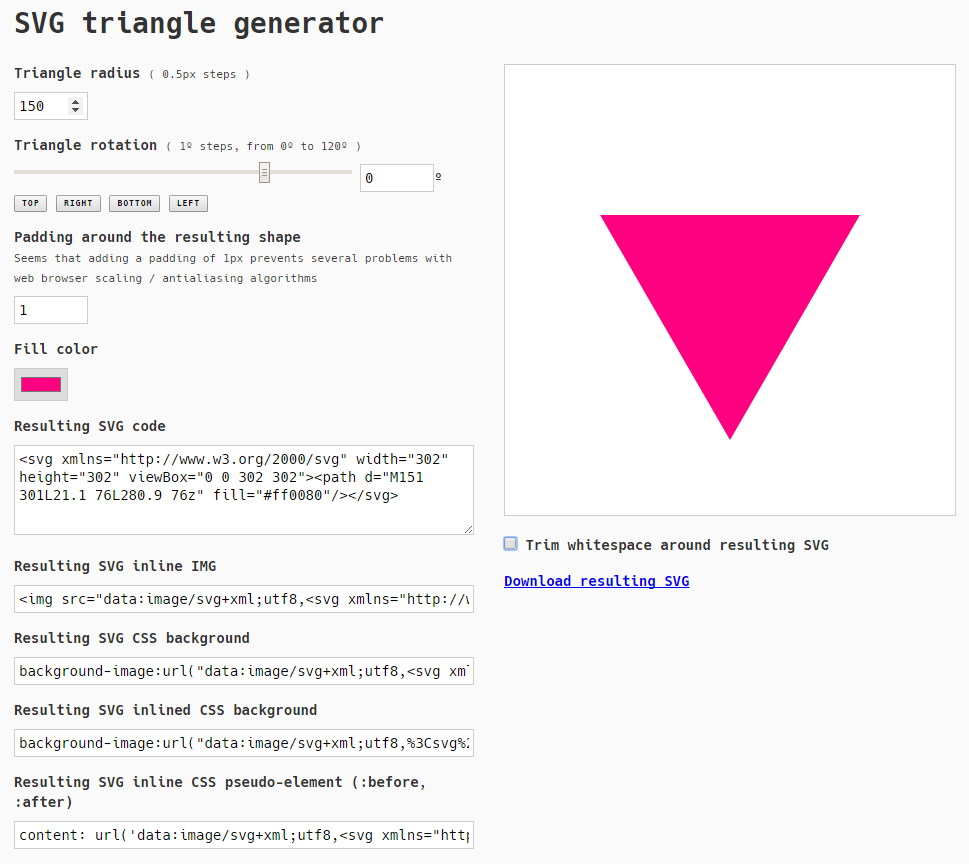
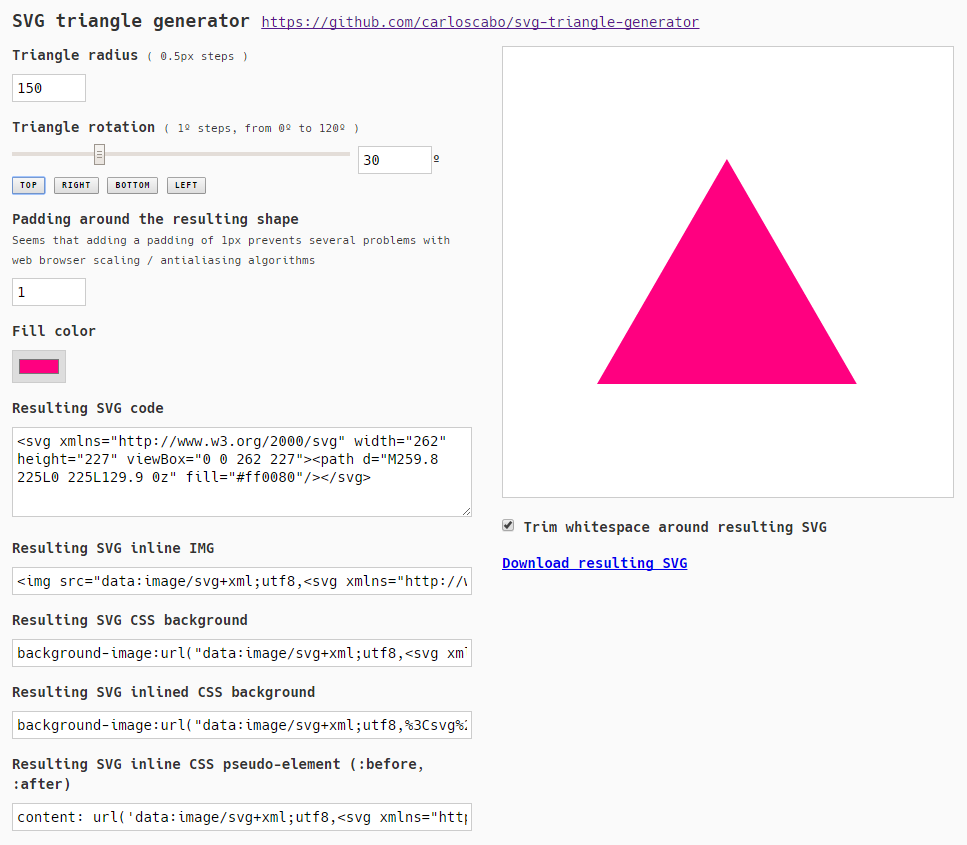
Pink triangle

diff --git a/index.html b/index.html
@@ -20,7 +20,7 @@
       </label>
       <label>
         Triangle rotation <small>( 1º steps, from 0º to 120º )</small><br>
-        <input id="rotation-angle-range" type="range" min="0" max="120" value="90" step="0.5">
+        <input id="rotation-angle-range" type="range" min="0" max="120" value="30" step="0.5">
         <input type="number" id="rotation-angle" value="0"><span>º</span>
         <div class="angle-buttons">
           <button class="set-angle" data-angle="30">TOP</button>
